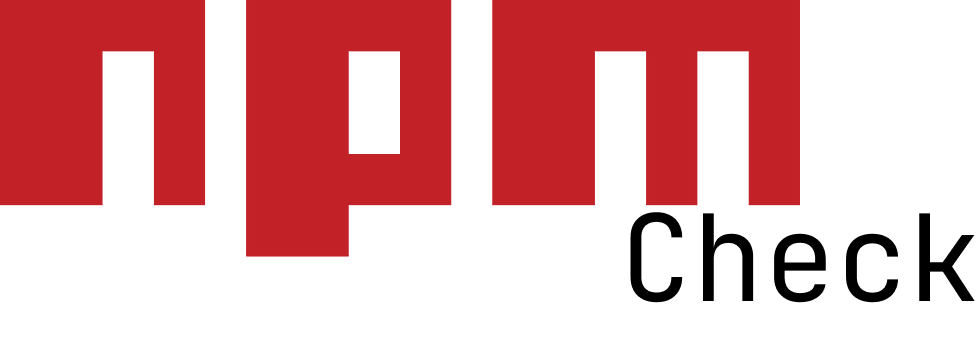
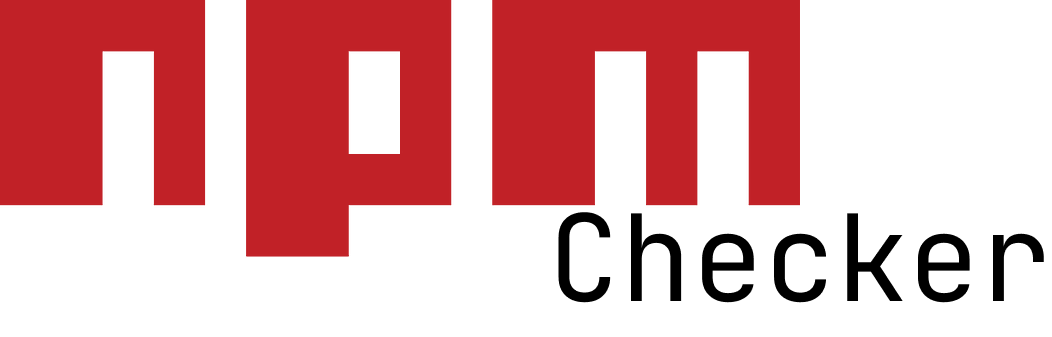
fix: change name and minor errors

diff --git a/server/checkPackageUpdate.ts b/server/checkPackageUpdate.ts
@@ -7,7 +7,7 @@ type Index<T> = Record<string, T>;
 
 export async function checkPackageUpdates(packageJson: string) {
   if (!packageJson) {
-    return { error: 'No se proporcionó package.json' };
+    return { error: 'There was an error recovering your package.json' };
   }
 
   let parsedPackageJson;
@@ -15,7 +15,7 @@ export async function checkPackageUpdates(packageJson: string) {
   try {
     parsedPackageJson = JSON.parse(packageJson);
   } catch (error) {
-    return { error: 'package.json inválido' };
+    return { error: 'Invalid package.json ' };
   }
 
   const upgrades = (await ncu({ packageData: packageJson, upgrade: false, jsonUpgraded: true, })) as Index<string>;

diff --git a/components/Footer.tsx b/components/Footer.tsx
@@ -4,7 +4,7 @@ import Link from "next/link";
 export default function Footer() {
   return (
     <footer className="absolute bottom-0 w-full flex justify-center mb-4">
-      <p className="flex items-center flex-wrap justify-center">&copy; 2024, Npm Check is a free tool made with
+      <p className="flex items-center flex-wrap justify-center">&copy; 2024, Npm Checker is a free tool made with
         <Heart className="text-[#C12127] h-5 w-5 mx-1" fill="#C12127" />  by
         <Link className="text-[#C12127] ml-1" href="https://www.linkedin.com/in/ian-duhamel/">{" "} Ian Duhamel</Link>
       </p>

diff --git a/components/Navbar.tsx b/components/Navbar.tsx
@@ -33,8 +33,8 @@ export default function Navbar() {
             />)}
           </picture>
         </Link>
-        <ul className='hidden sm:flex items-center h-full gap-2'>
-          <li>
+        <ul className=' sm:flex items-center h-full gap-2'>
+          <li className='hidden sm:inline-flex'>
             <GitHubStars repoUrl='https://github.com/Ianduha13/npm-check' repoName='Ianduha13/npm-check'/>
           </li>
           <li>

diff --git a/app/layout.tsx b/app/layout.tsx
@@ -20,8 +20,8 @@ const geistMono = localFont({
 });
 
 export const metadata: Metadata = {
-  title: "Npm Update Check",
-  description: "A simple tool to check for updates in your package.json",
+  title: "Npm Checker",
+  description: "A simple free-to-use tool to check for updates in your package.json",
 };
 
 export default function RootLayout({

diff --git a/app/page.tsx b/app/page.tsx
@@ -52,7 +52,7 @@ const HomePage = () => {
         </label>
 
       <Button onClick={handleAnalyze} disabled={loading || !packageJsonContent} className='mt-4'>
-        {loading ? 'Analyzing...' : 'Analyze Dependencies'}
+        {loading ? 'Checking new versions...' : 'Check Dependencies'}
       </Button>
       </div>
 
